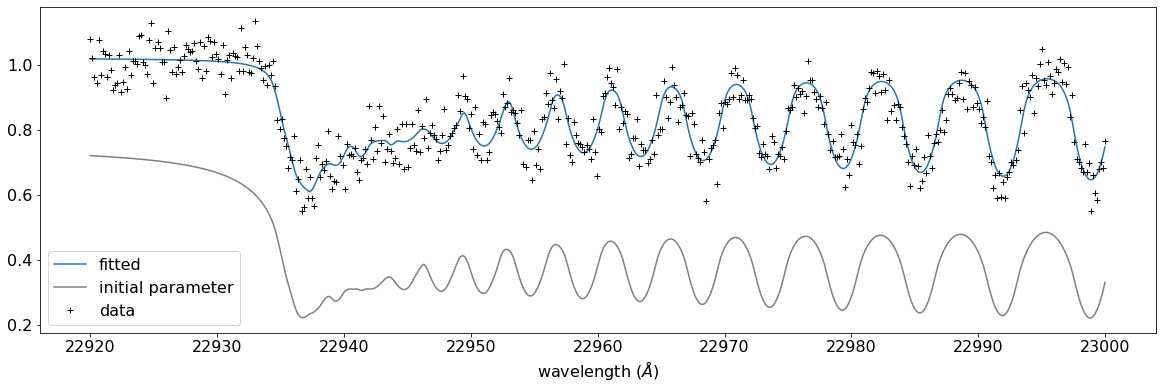
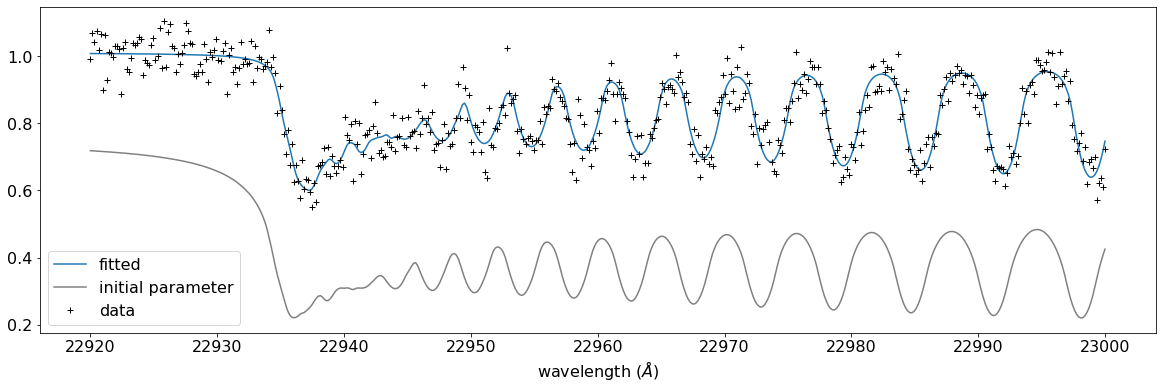
doc update

diff --git a/documents/conf.py b/documents/conf.py
@@ -19,11 +19,11 @@ sys.path.insert(0, os.path.abspath('/home/kawahara/exojax'))
 # -- Project information -----------------------------------------------------
 
 project = 'ExoJAX'
-copyright = '2021-2022, ExoJAX contributors'
+copyright = '2020-2022, ExoJAX contributors'
 author = 'ExoJAX contributors'
 
 # The full version, including alpha/beta/rc tags
-release = '1.1.0'
+release = '1.1.2'
 
 
 # -- General configuration ---------------------------------------------------

diff --git a/documents/tutorials/optimize_spectrum_JAXopt.rst b/documents/tutorials/optimize_spectrum_JAXopt.rst
@@ -1,10 +1,9 @@
-Fitting a spectrum model using Gradient Descent in JAXopt
-=========================================================
+Fitting a spectrum model using Gradient Descent based optimizations in JAXopt
+=============================================================================
 
 The gradient-based optimization is available using autograd in ExoJAX. In this tutorial, we demonstrate the gradient-based optimization of a simple emission spectrum using `JAXopt <https://github.com/google/jaxopt>`_.
 
-See `this movie <https://www.youtube.com/watch?v=ZytYJONvP24>`_ to see how the gradient descent find the model fitted to the spectrum.
-
+See `this movie <https://youtu.be/XQIFPRdVzyc>`_ to see how the gradient descent and ADAM find the model fitted to the spectrum.
 
 .. code:: ipython3
 
@@ -14,7 +13,7 @@ See `this movie <https://www.youtube.com/watch?v=ZytYJONvP24>`_ to see how the g
     import jax.numpy as jnp
 
 Here, we use the mock spectrum generated by the tutorial of “Foward
-modeling of an Emission Spectrum”.
+modeling”.
 
 .. code:: ipython3
 
@@ -102,6 +101,15 @@ We have only 39 CO lines.
     plt.plot(mdbCO.nu_lines,mdbCO.Sij0,".")
 
 
+
+
+.. parsed-literal::
+
+    [<matplotlib.lines.Line2D at 0x7f370819df40>]
+
+
+
+
 .. image:: optimize_spectrum_JAXopt/output_12_1.png
 
 
@@ -135,7 +143,7 @@ Now we write the model, which is used in HMC-NUTS.
 .. code:: ipython3
 
     def model_c(params,boost,nu1):
-        Rp,RV,MMR_CO,T0,alpha,vsini=params*boost
+        Rp,RV,MMR_CO,T0,alpha,vsini,RV=params*boost
         g=2478.57730044555*Mp/Rp**2 #gravity                                        
         u1=0.0
         u2=0.0
@@ -173,7 +181,10 @@ Now we write the model, which is used in HMC-NUTS.
         model=obyo(nu1,nus,numatrix_CO,mdbCO,cdbH2H2)
         return model
 
-Here, we use `JAXopt <https://github.com/google/jaxopt>`_ as an optimizer. 
+Here, we use JAXopt as an optimizer. JAXopt is not automatically
+installed. If you need install it by pip:
+
+pip install jaxopt
 
 .. code:: ipython3
 
@@ -184,9 +195,9 @@ parameters.
 
 .. code:: ipython3
 
-    #Rp,RV,MMR_CO,T0,alpha,vsini
-    boost=np.array([1.0,10.0,0.1,1000.0,1.e-3,10.0])
-    initpar=np.array([0.8,9.0,0.1,1200.0,0.1,17.0])/boost
+    #Rp,RV,MMR_CO,T0,alpha,vsini, RV
+    boost=np.array([1.0,10.0,0.1,1000.0,1.e-3,10.0,10.0])
+    initpar=np.array([0.8,9.0,0.1,1200.0,0.1,17.0,0.0])/boost
 
 Define the objective function by a L2 norm.
 
@@ -212,10 +223,12 @@ The best-fit parameters
     params*boost
 
 
+
+
 .. parsed-literal::
 
-    DeviceArray([1.0081457e+00, 9.9860401e+00, 5.5853054e-03, 1.3126758e+03,
-                 9.9855222e-02, 2.0483101e+01], dtype=float32)
+    DeviceArray([1.2338543e+00, 9.0000000e+00, 4.9583600e-03, 1.3364286e+03,
+                 9.9846944e-02, 1.9616049e+01, 1.0154862e+01], dtype=float32)
 
 
 
@@ -238,3 +251,101 @@ Plot the results. It works well!
 
 .. image:: optimize_spectrum_JAXopt/output_31_0.png
 
+
+One by one update
+
+.. code:: ipython3
+
+    import tqdm
+    gd = jaxopt.GradientDescent(fun=objective, stepsize=1.e-4)
+    state = gd.init_state(initpar)
+    params=np.copy(initpar)
+    
+    params_gd=[]
+    Nit=300
+    for _ in  tqdm.tqdm(range(Nit)):
+        params,state=gd.update(params,state)
+        params_gd.append(params)
+
+
+.. parsed-literal::
+
+    100%|█████████████████████████████████████████████████████████████████████████████████| 300/300 [04:25<00:00,  1.13it/s]
+
+
+Using ADAM optimizer
+--------------------
+
+.. code:: ipython3
+
+    from jaxopt import OptaxSolver
+    import optax
+
+.. code:: ipython3
+
+    adam = OptaxSolver(opt=optax.adam(2.e-2), fun=objective)
+    state = adam.init_state(initpar)
+    params=np.copy(initpar)
+    
+    params_adam=[]
+    #Nit=300
+    for _ in  tqdm.tqdm(range(Nit)):
+        params,state=adam.update(params,state)
+        params_adam.append(params)
+
+
+.. parsed-literal::
+
+    100%|█████████████████████████████████████████████████████████████████████████████████| 300/300 [02:16<00:00,  2.20it/s]
+
+     if you wanna optimize at once, run the following: 
+
+.. code:: ipython3
+
+    res = solver.run(init_params=initpar)
+    params, state = res
+
+.. code:: ipython3
+
+    params*boost
+
+
+.. parsed-literal::
+
+    DeviceArray([7.5132293e-01, 9.0000000e+00, 6.3453913e-03, 1.2756888e+03,
+                 9.9074565e-02, 1.9556759e+01, 1.0081638e+01], dtype=float32)
+
+
+
+make a movie
+------------
+
+.. code:: ipython3
+
+    inmodel=model_c(initpar,boost,nusd)
+    for i in tqdm.tqdm(range(Nit)):
+        spec_gd=model_c(params_gd[i],boost,nusd)
+        spec_adam=model_c(params_adam[i],boost,nusd)
+        fig, ax = plt.subplots(nrows=1, ncols=1, figsize=(20,6.0))
+        ax.plot(wavd[::-1],spec_gd,color="C0",label="GD")
+        ax.plot(wavd[::-1],spec_adam,color="C1",label="ADAM")
+        ax.plot(wavd[::-1],inmodel,color="gray",label="initial parameter")
+        ax.plot(wavd[::-1],nflux,"+",color="black",label="data")
+        plt.xlabel("wavelength ($\AA$)",fontsize=16)
+        plt.tick_params(labelsize=16)
+        plt.ylim(0.0,1.2)
+        plt.legend(loc="lower left")
+        plt.savefig("movie/gradient_descent_jaxopt"+str(i).zfill(4)+".png")
+        plt.close()
+
+
+.. parsed-literal::
+
+    100%|█████████████████████████████████████████████████████████████████████████████████| 300/300 [02:43<00:00,  1.84it/s]
+
+
+For instance, you can make a movie using ffmpeg:
+
+.. code:: sh
+
+	  ffmpeg -r 30 -i gradient_descent_jaxopt%04d.png -vcodec libx264 -pix_fmt yuv420p -r 60 out.mp4
